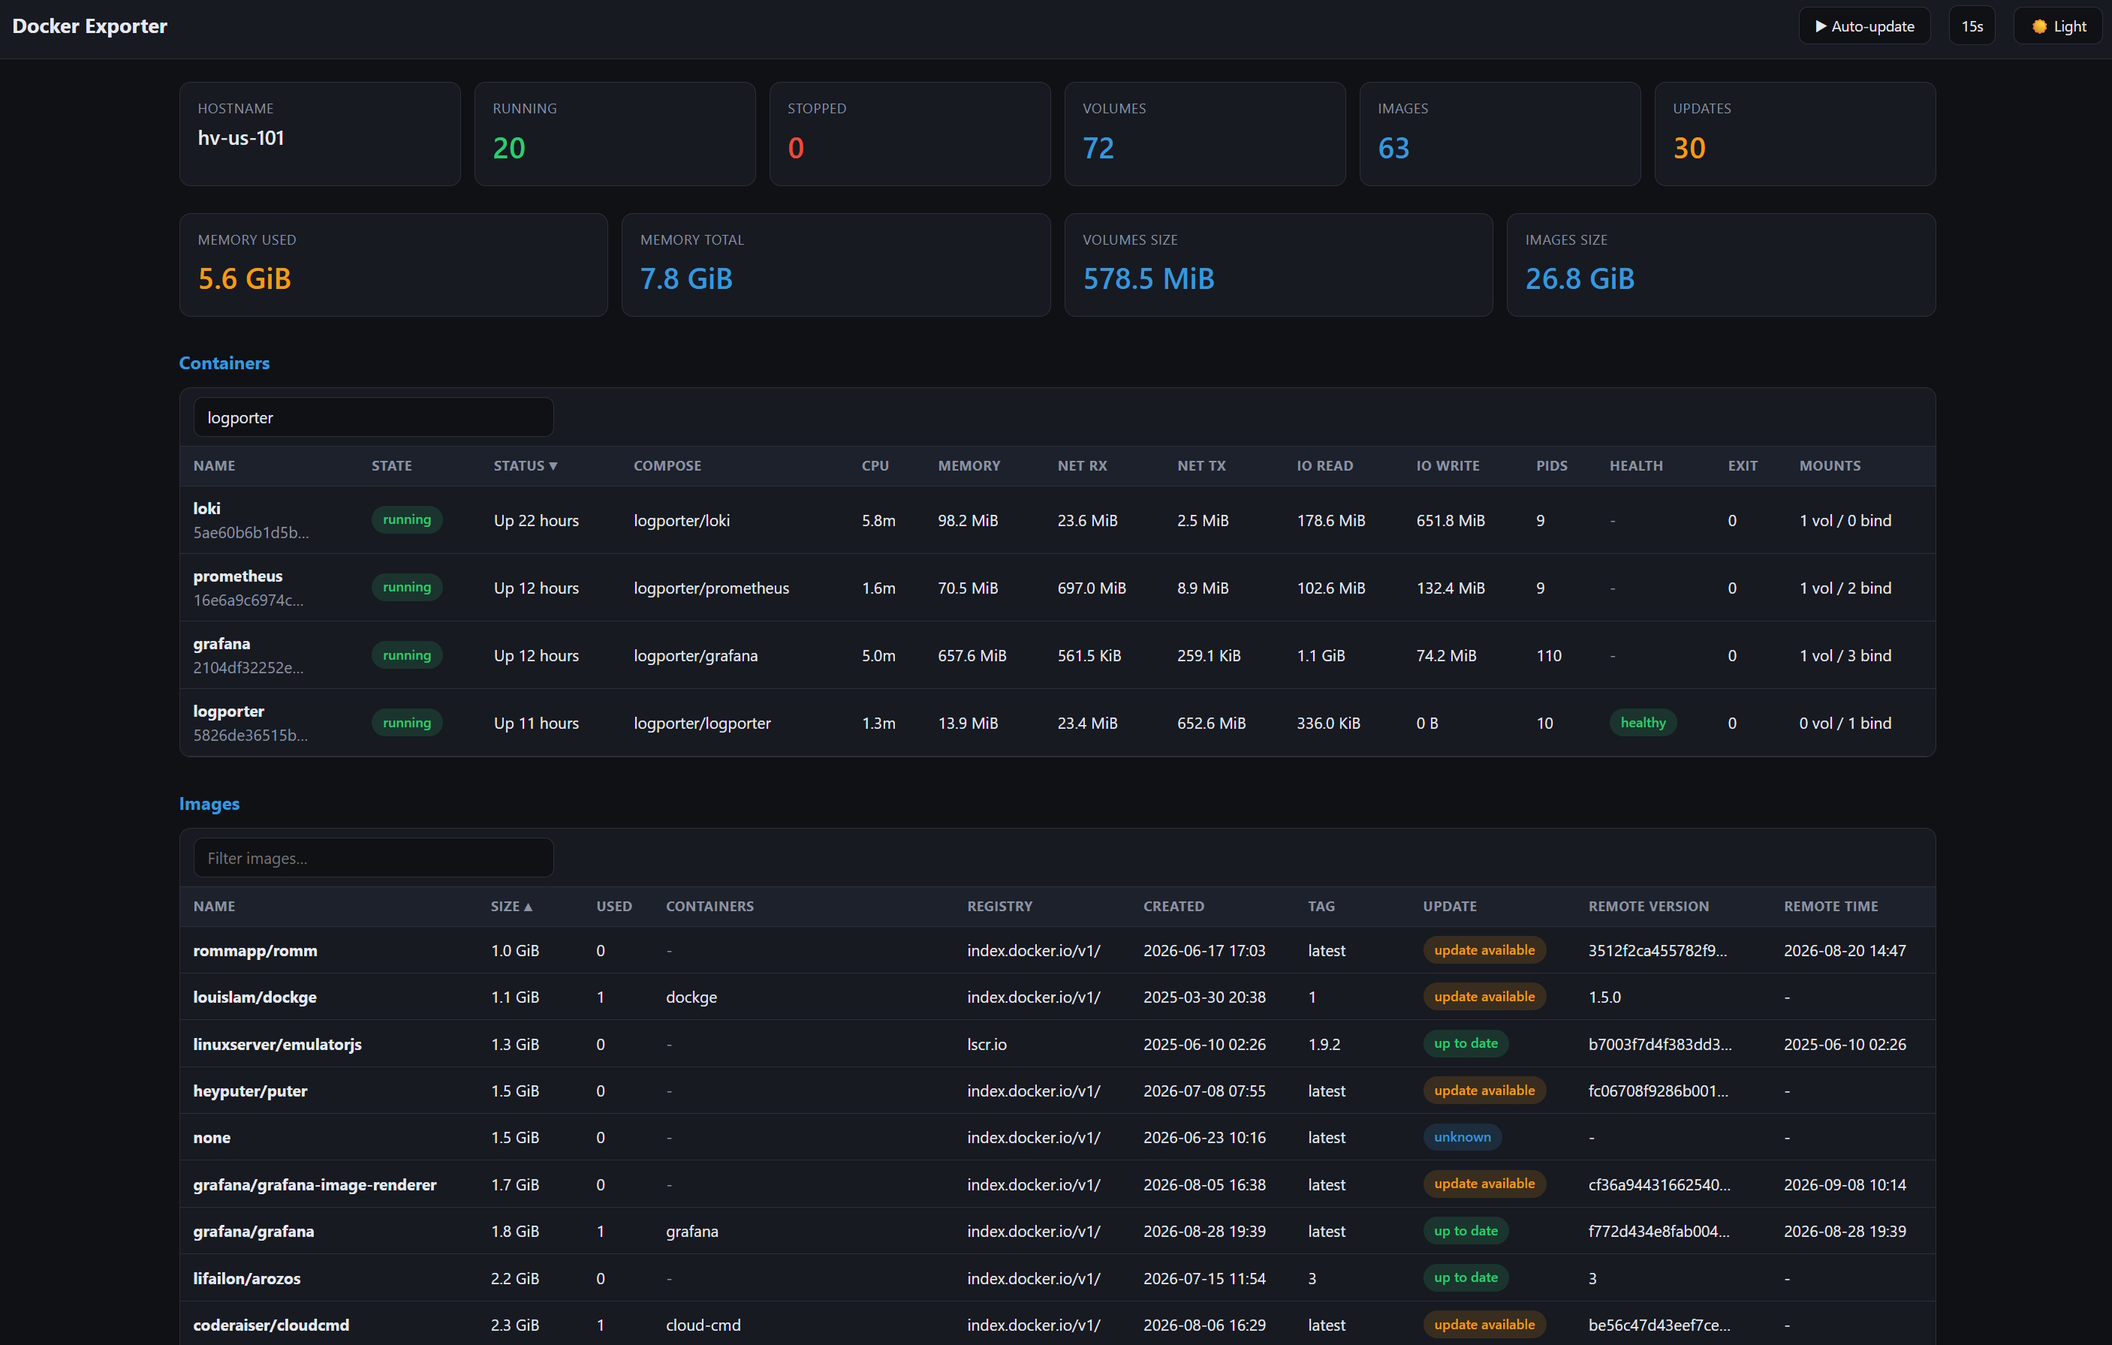
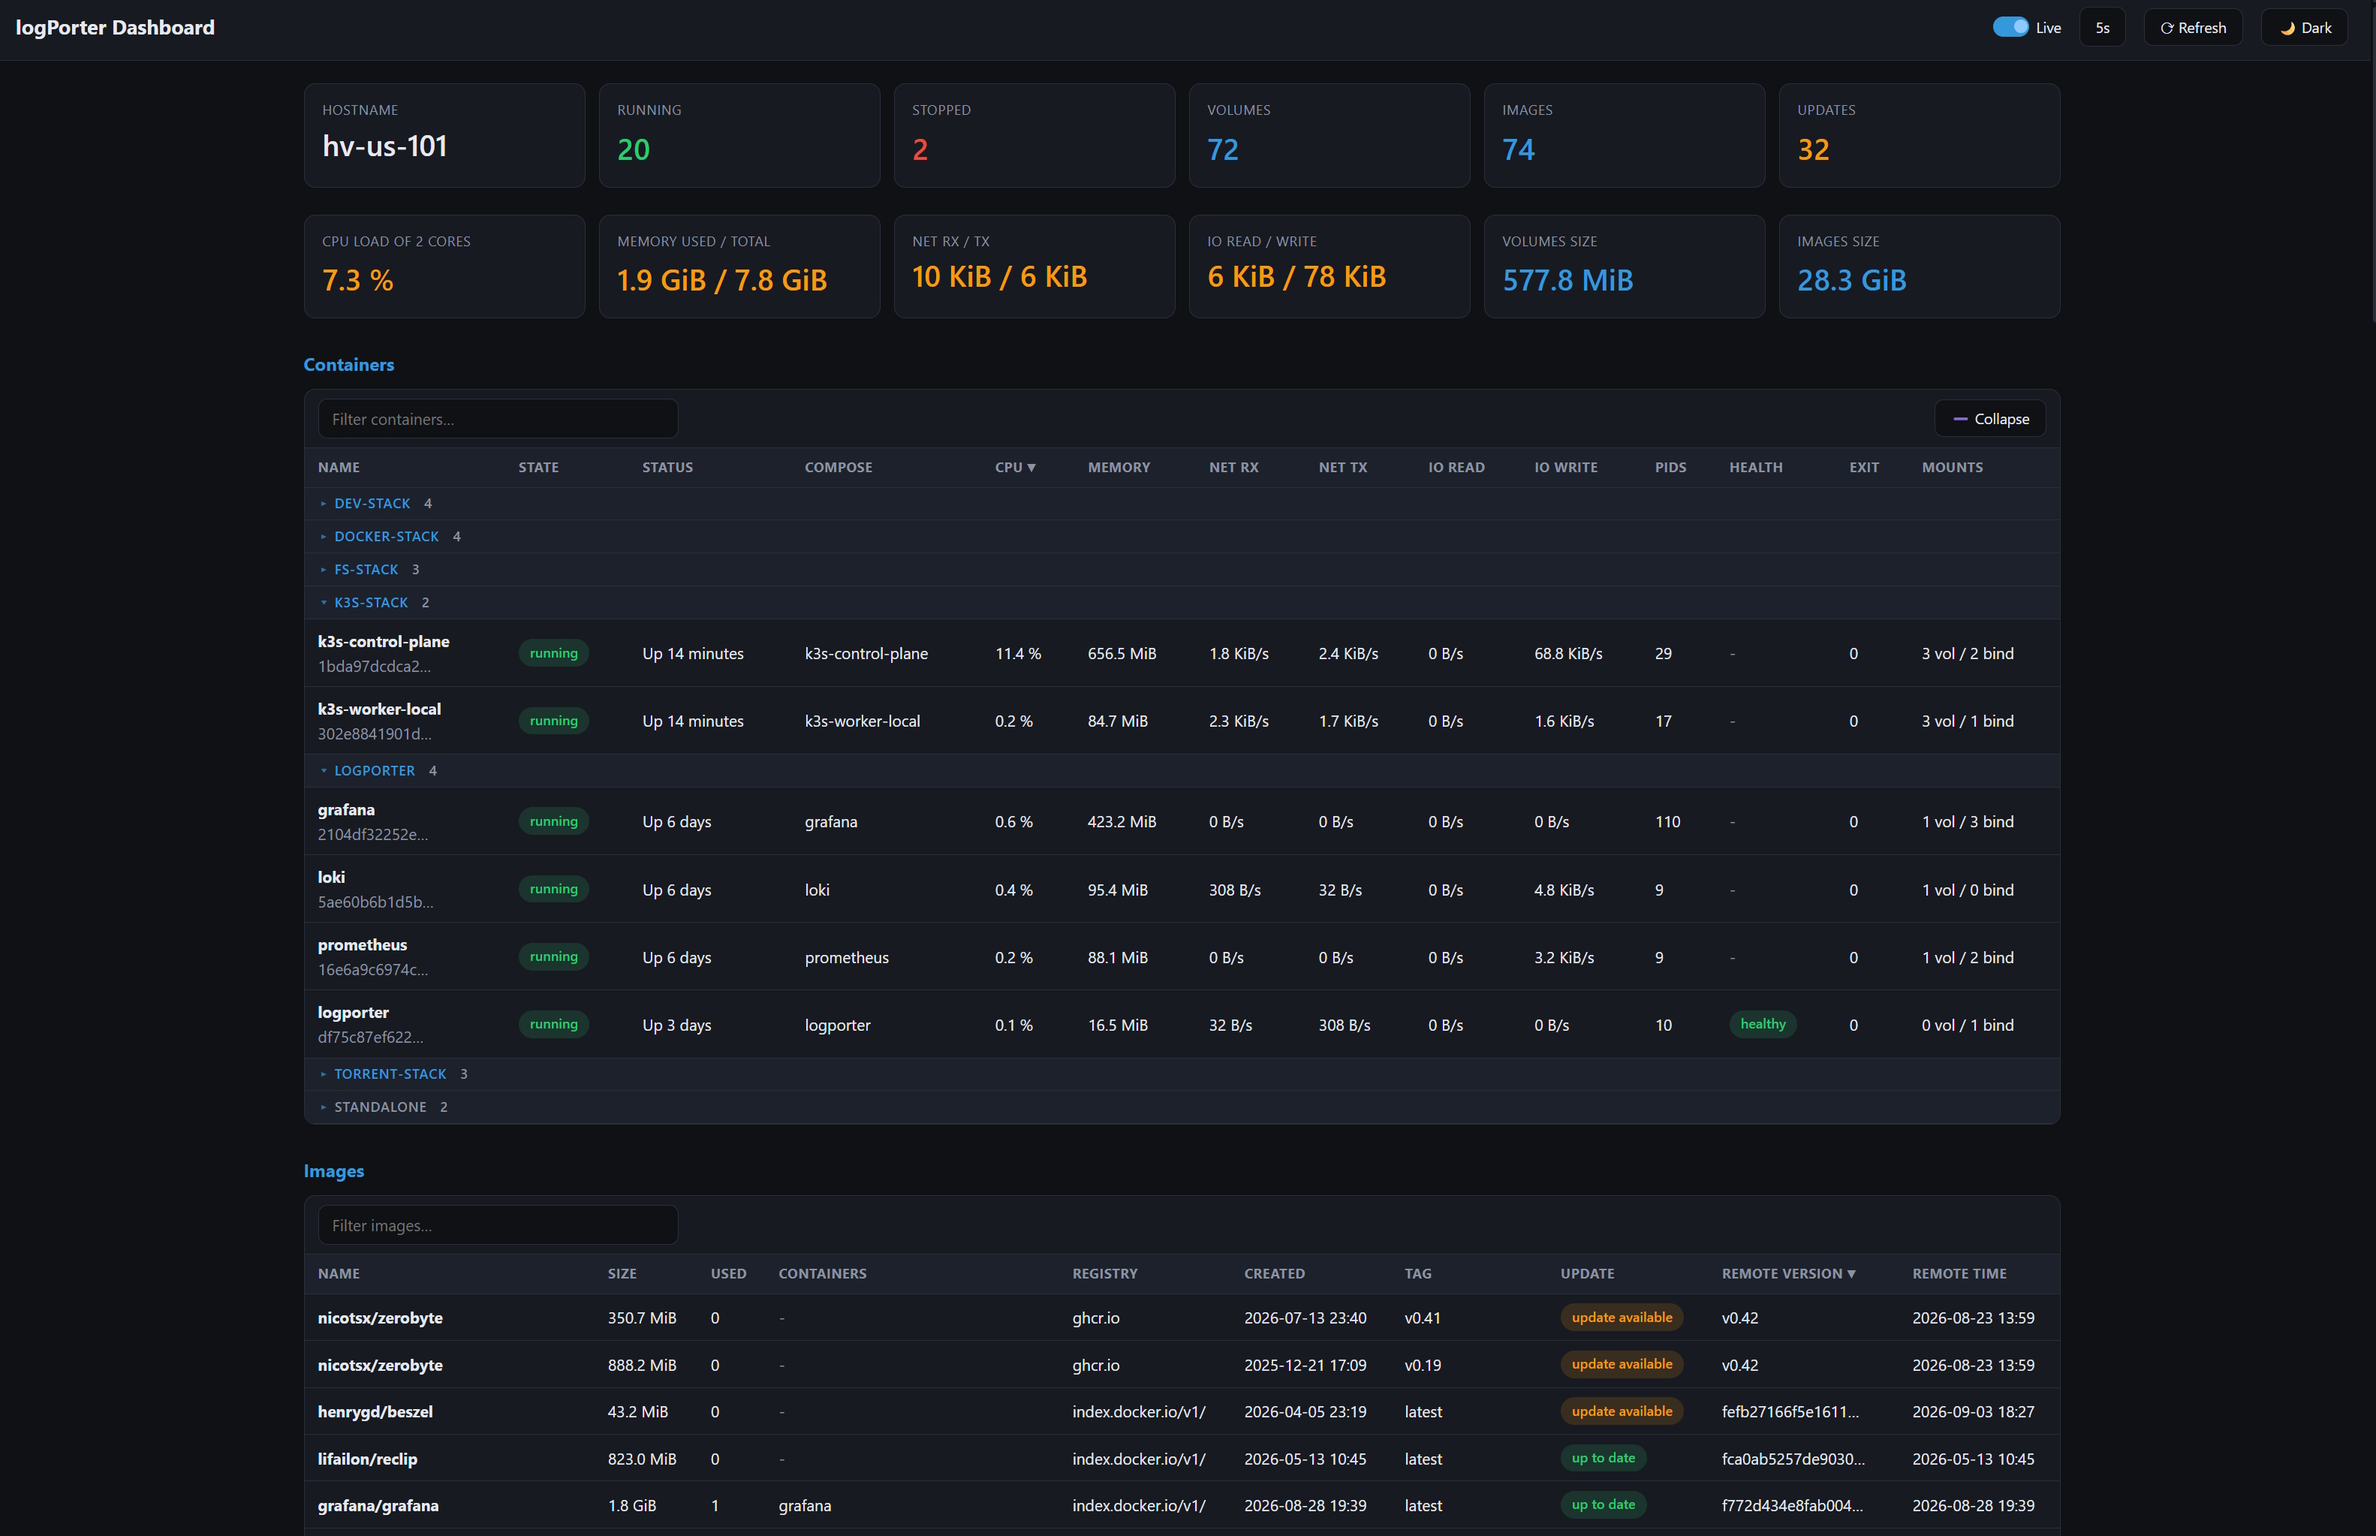
update dashboard and add view logs to demo images

diff --git a/README.md b/README.md
@@ -35,6 +35,10 @@ Go to Dashboard: `http://localhost:9333`.
 
 ![](/img/dashboard.jpg)
 
+The dashboard allows you to view container logs in real time, with support for content filtering.
+
+![](/img/dashboard-logs.jpg)
+
 ## Manual setup
 
 ### Exporter
